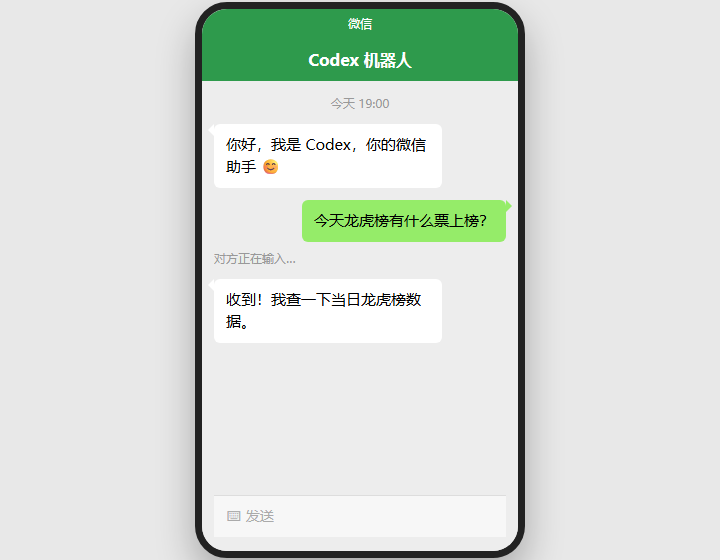
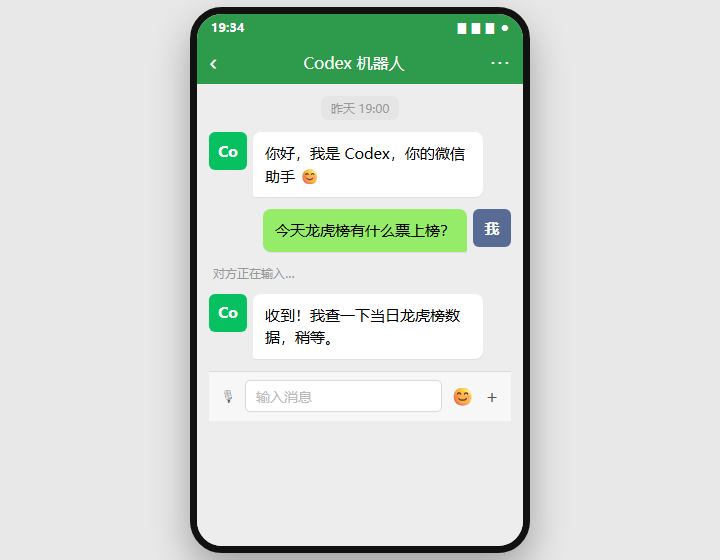
Make WeChat chat mockup more realistic

Changed region(s): [[0.2444, 0.0, 0.7333, 1.0], [0.4583, 0.1821, 0.55, 0.2125], [0.6111, 0.6982, 0.6722, 0.7286]]

diff --git a/assets/chat.html b/assets/chat.html
@@ -1,30 +1,39 @@
 <!doctype html><html lang="zh-CN"><head><meta charset="utf-8"><style>
 *{box-sizing:border-box;margin:0;padding:0;}
 body{font-family:-apple-system,"PingFang SC","Microsoft YaHei",sans-serif;background:#e8e8e8;width:720px;height:560px;display:flex;align-items:center;justify-content:center;}
-.phone{width:330px;background:#ededed;border-radius:32px;border:7px solid #222;overflow:hidden;box-shadow:0 18px 38px rgba(0,0,0,.28);}
-.status{height:28px;background:#2e9a4c;color:#fff;display:flex;align-items:center;justify-content:center;font-size:12px;}
-.nav{height:44px;background:#2e9a4c;color:#fff;display:flex;align-items:center;justify-content:center;font-size:16px;font-weight:600;}
-.chat-body{height:470px;background:#ededed;padding:14px 12px;display:flex;flex-direction:column;gap:12px;font-size:15px;line-height:1.45;}
-.day{align-self:center;font-size:12px;color:#999;}
-.bubble{max-width:78%;padding:10px 12px;border-radius:6px;position:relative;}
-.bubble.user{align-self:flex-end;background:#95ec69;}
-.bubble.bot{align-self:flex-start;background:#fff;}
-.bubble.bot::before,.bubble.user::before{content:'';position:absolute;top:0;width:0;height:0;border:6px solid transparent;}
-.bubble.bot::before{left:-6px;border-right-color:#fff;border-left:0;}
-.bubble.user::before{right:-6px;border-left-color:#95ec69;border-right:0;}
-.typing{align-self:flex-start;color:#999;font-size:12px;margin-top:-4px;}
-.input{margin-top:auto;background:#f7f7f7;border-top:1px solid #ddd;height:42px;display:flex;align-items:center;padding:0 12px;color:#aaa;font-size:14px;}
+.phone{width:340px;background:#ededed;border-radius:32px;border:7px solid #111;overflow:hidden;box-shadow:0 18px 38px rgba(0,0,0,.3);}
+.status{height:26px;background:#2e9a4c;color:#fff;display:flex;align-items:center;justify-content:space-between;padding:0 14px;font-size:12px;font-weight:600;}
+.icons{display:flex;align-items:center;gap:5px;font-size:13px;}
+.nav{height:44px;background:#2e9a4c;color:#fff;display:flex;align-items:center;justify-content:space-between;padding:0 12px;font-size:16px;}
+.nav .back{font-size:24px;line-height:1;}
+.nav .more{font-size:20px;letter-spacing:2px;}
+.chat-body{height:462px;background:#ededed;padding:12px;display:flex;flex-direction:column;gap:12px;font-size:15px;line-height:1.5;position:relative;}
+.day{align-self:center;font-size:12px;color:#999;background:rgba(0,0,0,0.03);padding:3px 10px;border-radius:6px;}
+.row{display:flex;gap:6px;align-items:flex-start;}
+.row.bot{justify-content:flex-start;}
+.row.user{justify-content:flex-end;}
+.avatar{width:38px;height:38px;border-radius:6px;flex:0 0 auto;display:grid;place-items:center;color:#fff;font-size:15px;font-weight:700;}
+.avatar.bot{background:#07C160;}
+.avatar.user{background:#576b95;}
+.col{max-width:76%;display:flex;flex-direction:column;gap:4px;}
+.bubble{padding:10px 12px;font-size:15px;line-height:1.5;position:relative;box-shadow:0 1px 1px rgba(0,0,0,.06);}
+.bubble.bot{background:#fff;border-radius:8px 8px 8px 2px;}
+.bubble.user{background:#95ec69;border-radius:8px 8px 2px 8px;}
+.typing{color:#999;font-size:12px;padding:0 4px;}
+.input{height:50px;background:#f7f7f7;border-top:1px solid #dcdcdc;display:flex;align-items:center;gap:8px;padding:0 10px;color:#555;font-size:15px;}
+.input .box{flex:1;height:32px;background:#fff;border-radius:5px;border:1px solid #d9d9d9;display:flex;align-items:center;padding:0 10px;color:#bbb;font-size:14px;}
+.input .ic{font-size:18px;}
 </style></head><body>
 <div class="phone">
-  <div class="status">微信</div>
-  <div class="nav">Codex 机器人</div>
+  <div class="status"><span>19:34</span><span class="icons">▮▮▮ ●</span></div>
+  <div class="nav"><span class="back">‹</span><span>Codex 机器人</span><span class="more">···</span></div>
   <div class="chat-body">
-    <div class="day">今天 19:00</div>
-    <div class="bubble bot">你好，我是 Codex，你的微信助手 😊</div>
-    <div class="bubble user">今天龙虎榜有什么票上榜？</div>
-    <div class="typing">对方正在输入…</div>
-    <div class="bubble bot">收到！我查一下当日龙虎榜数据。</div>
-    <div class="input">⌨ 发送</div>
+    <div class="day">昨天 19:00</div>
+    <div class="row bot"><div class="avatar bot">Co</div><div class="col"><div class="bubble bot">你好，我是 Codex，你的微信助手 😊</div></div></div>
+    <div class="row user"><div class="col"><div class="bubble user">今天龙虎榜有什么票上榜？</div></div><div class="avatar user">我</div></div>
+    <div class="typing" style="align-self:flex-start;">对方正在输入…</div>
+    <div class="row bot"><div class="avatar bot">Co</div><div class="col"><div class="bubble bot">收到！我查一下当日龙虎榜数据，稍等。</div></div></div>
+    <div class="input"><span class="ic">🎙</span><span class="box">输入消息</span><span class="ic">😊</span><span class="ic">＋</span></div>
   </div>
 </div>
 </body></html>
